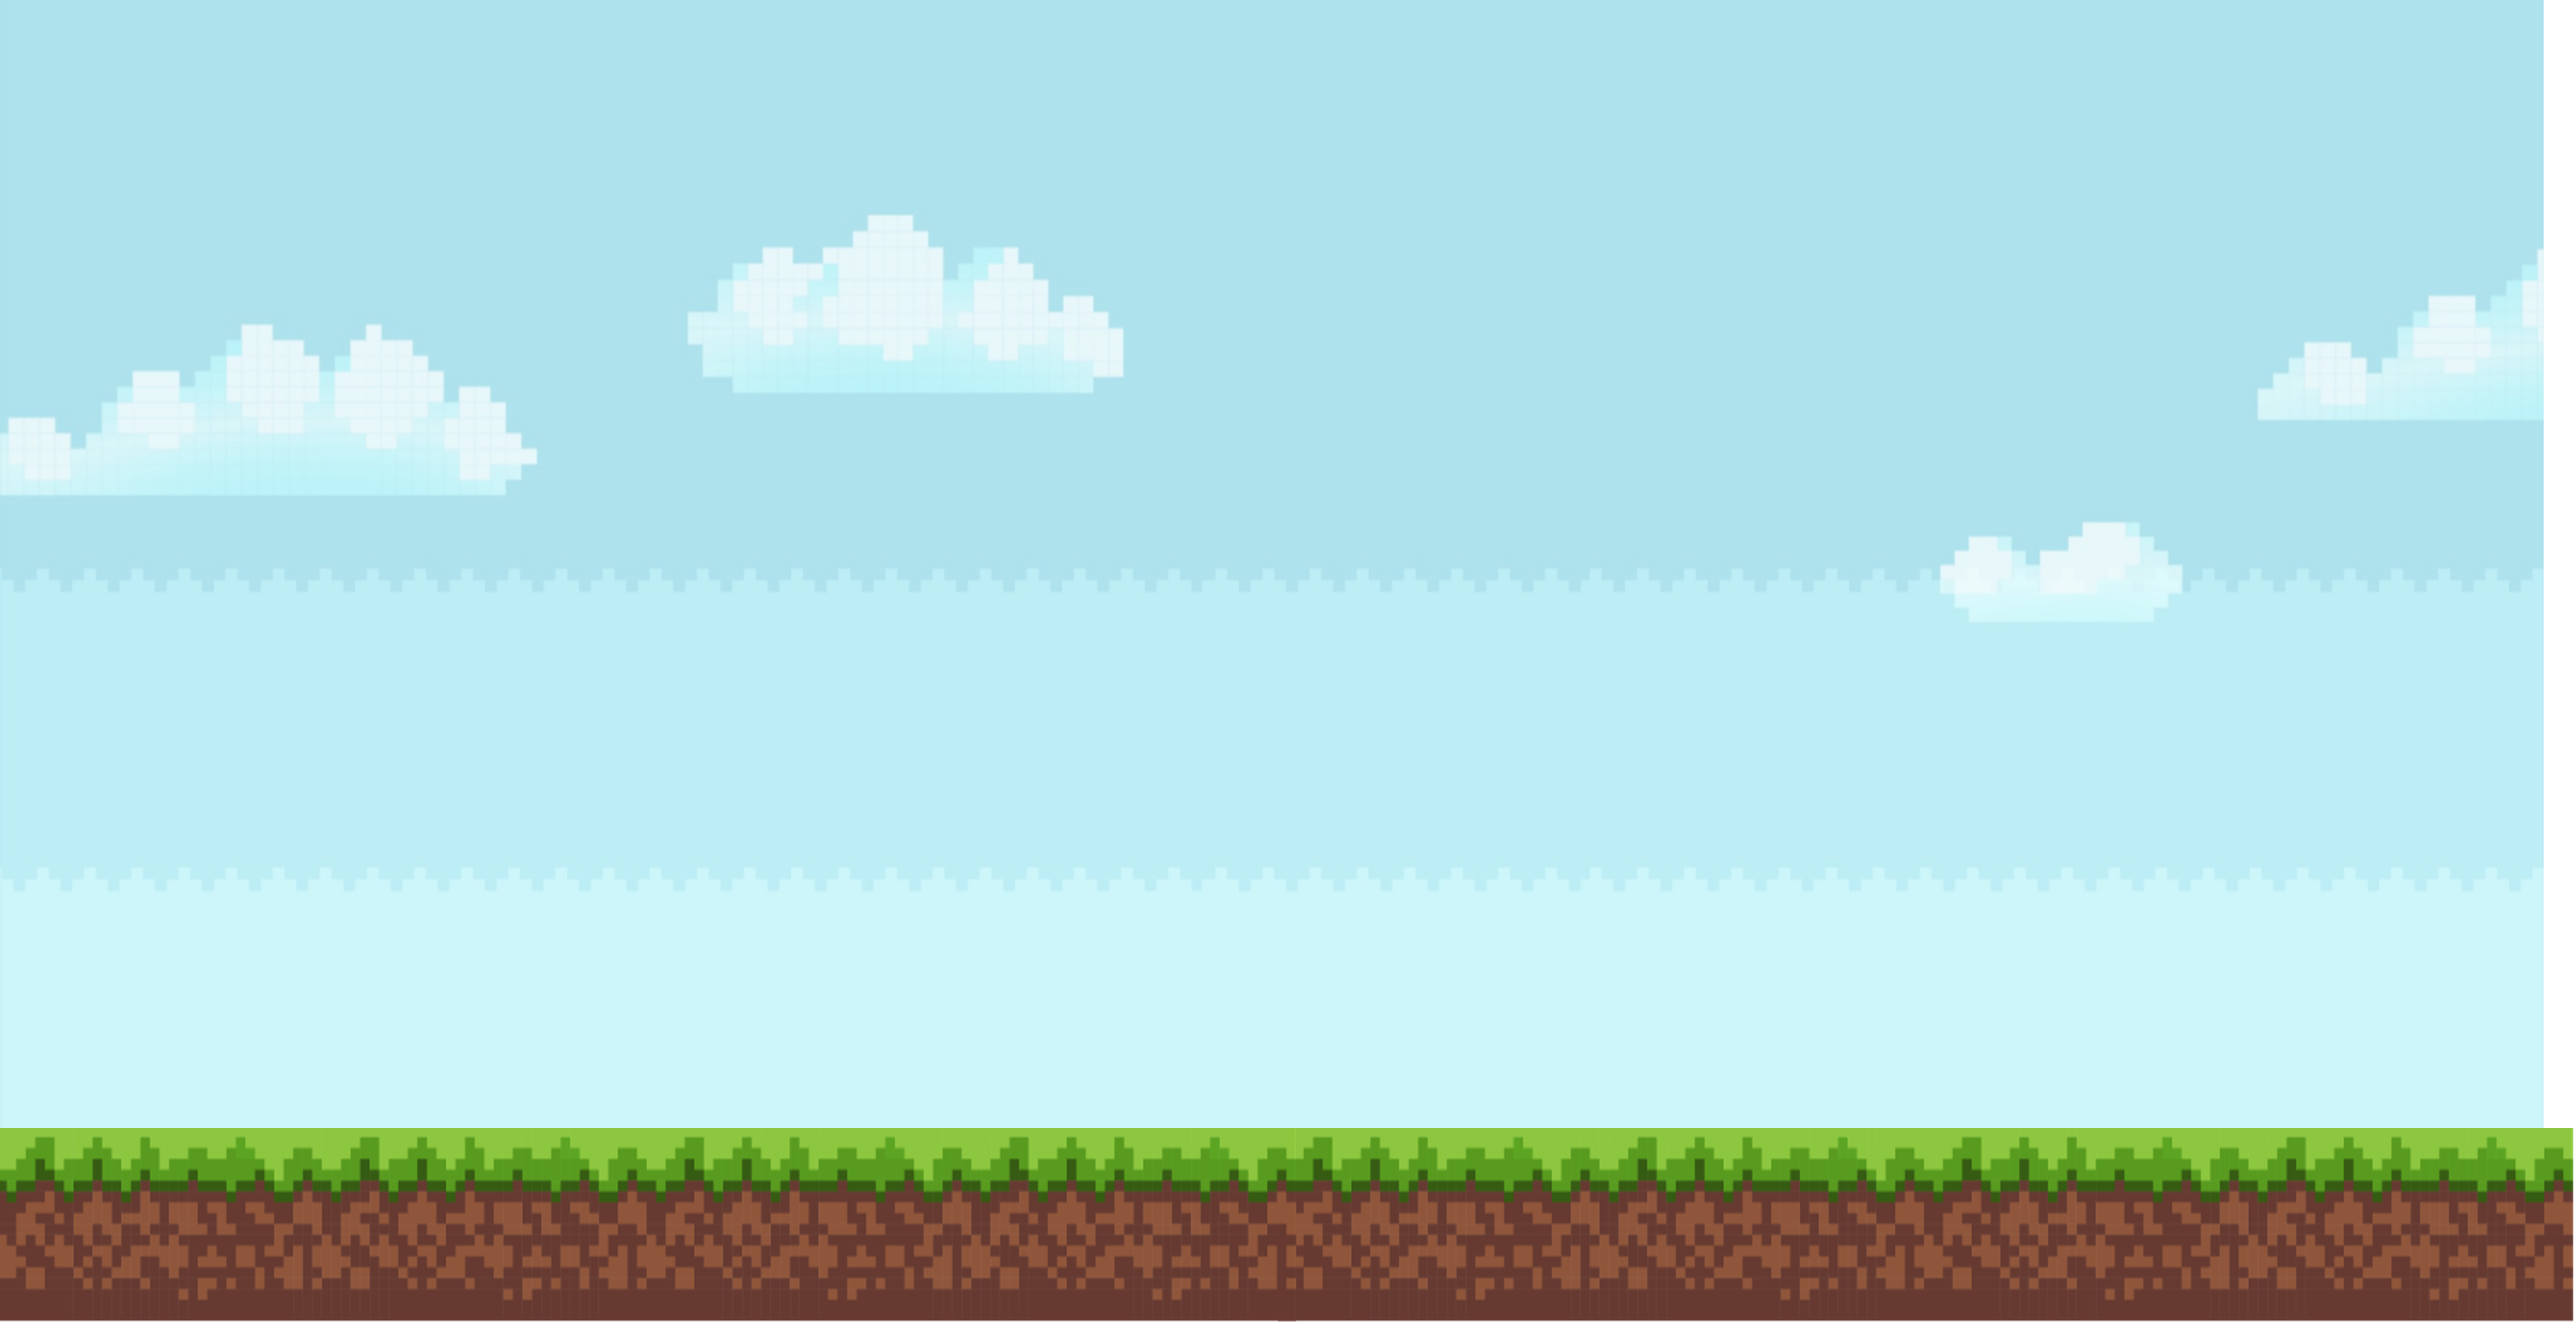
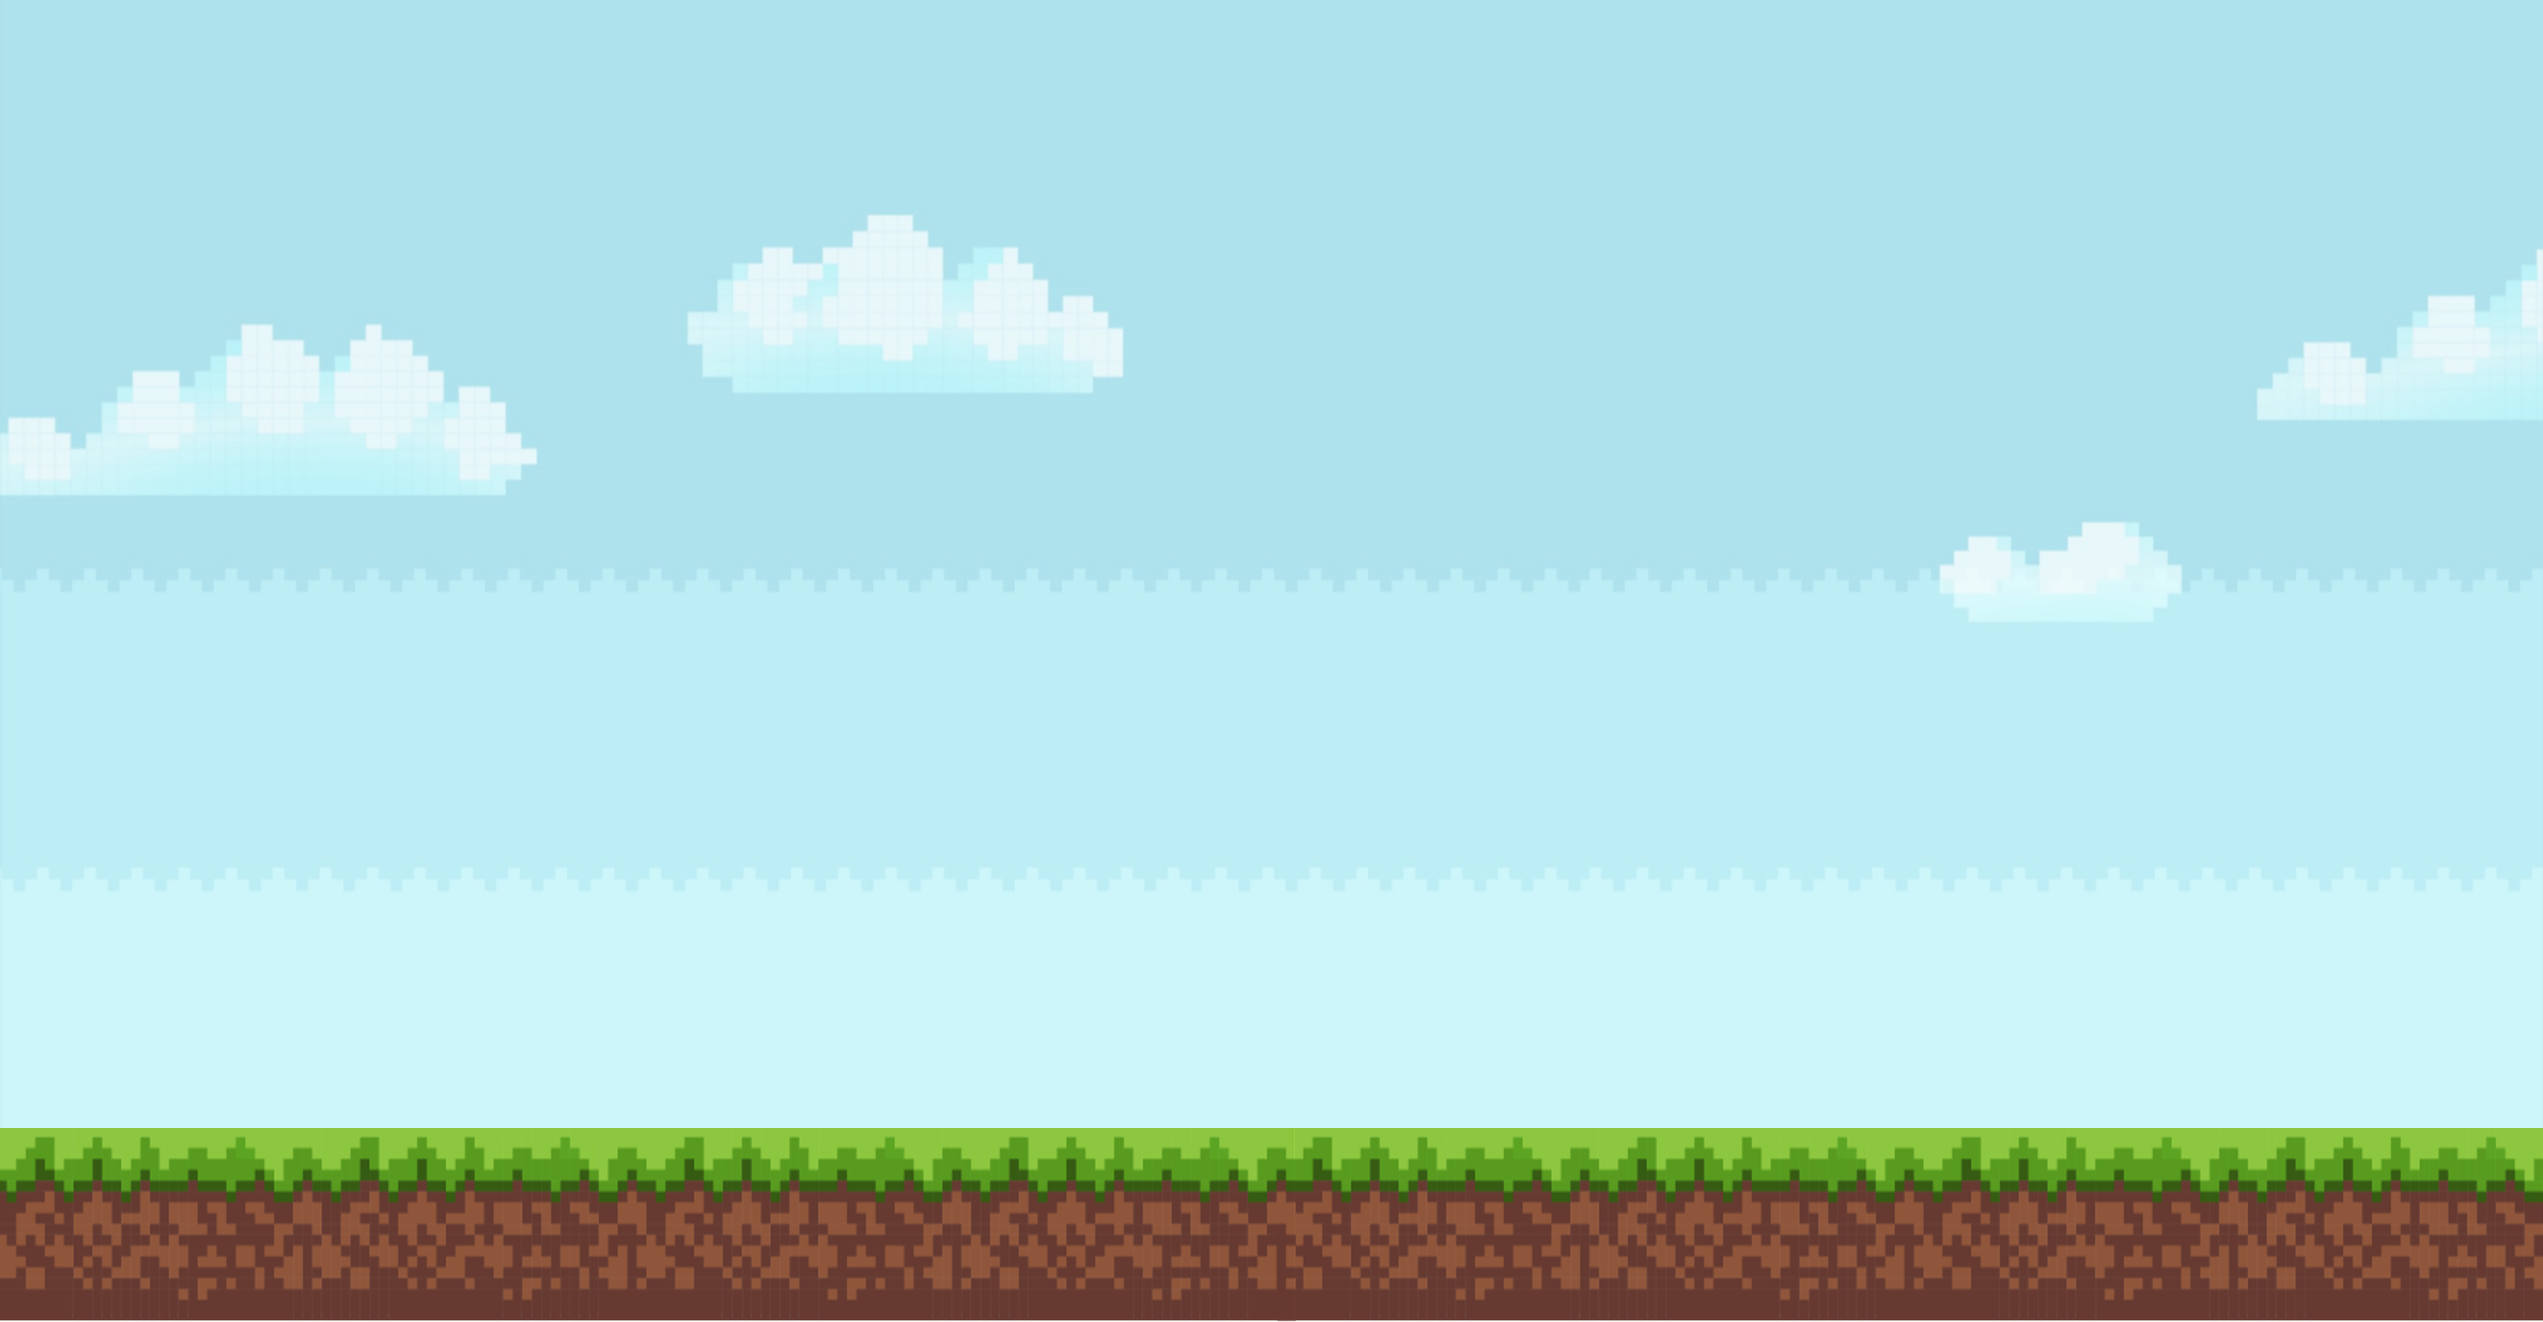
fix: 배경이미지 수정

diff --git a/frontend/farmily/src/pages/Index.jsx b/frontend/farmily/src/pages/Index.jsx
@@ -2,7 +2,7 @@ import { Outlet } from 'react-router-dom';
 
 export default function IndexLayout() {
   return (
-    <main className="absolute flex h-screen w-screen bg-main bg-cover bg-center mx-0">
+    <main className="absolute flex items-end justify-between h-screen w-screen bg-main bg-cover bg-bottom mx-0 font-['DungGeunMo']">
       <Outlet />
     </main>
   )
